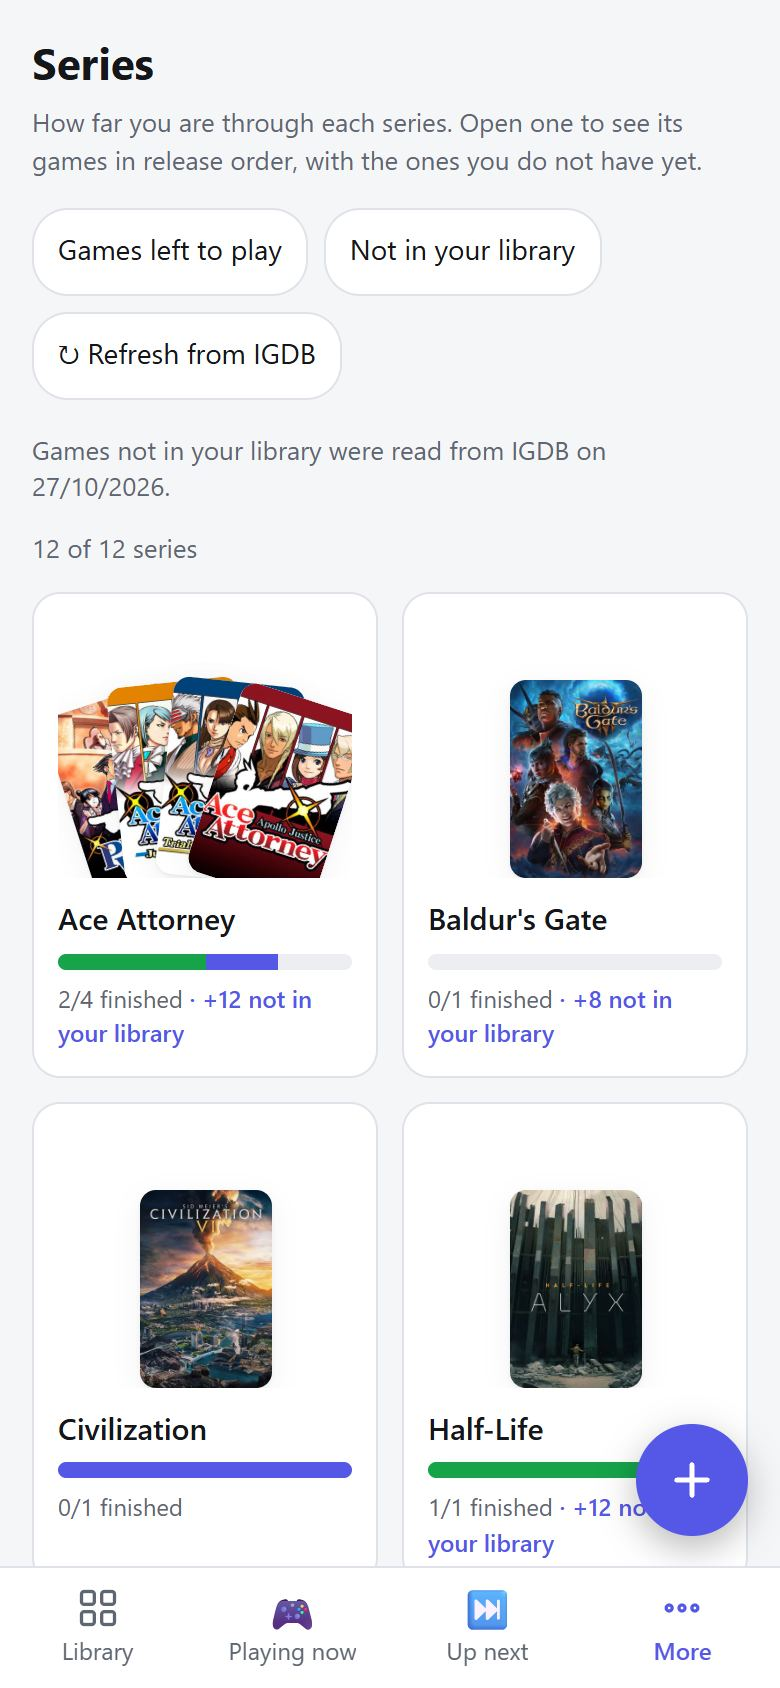
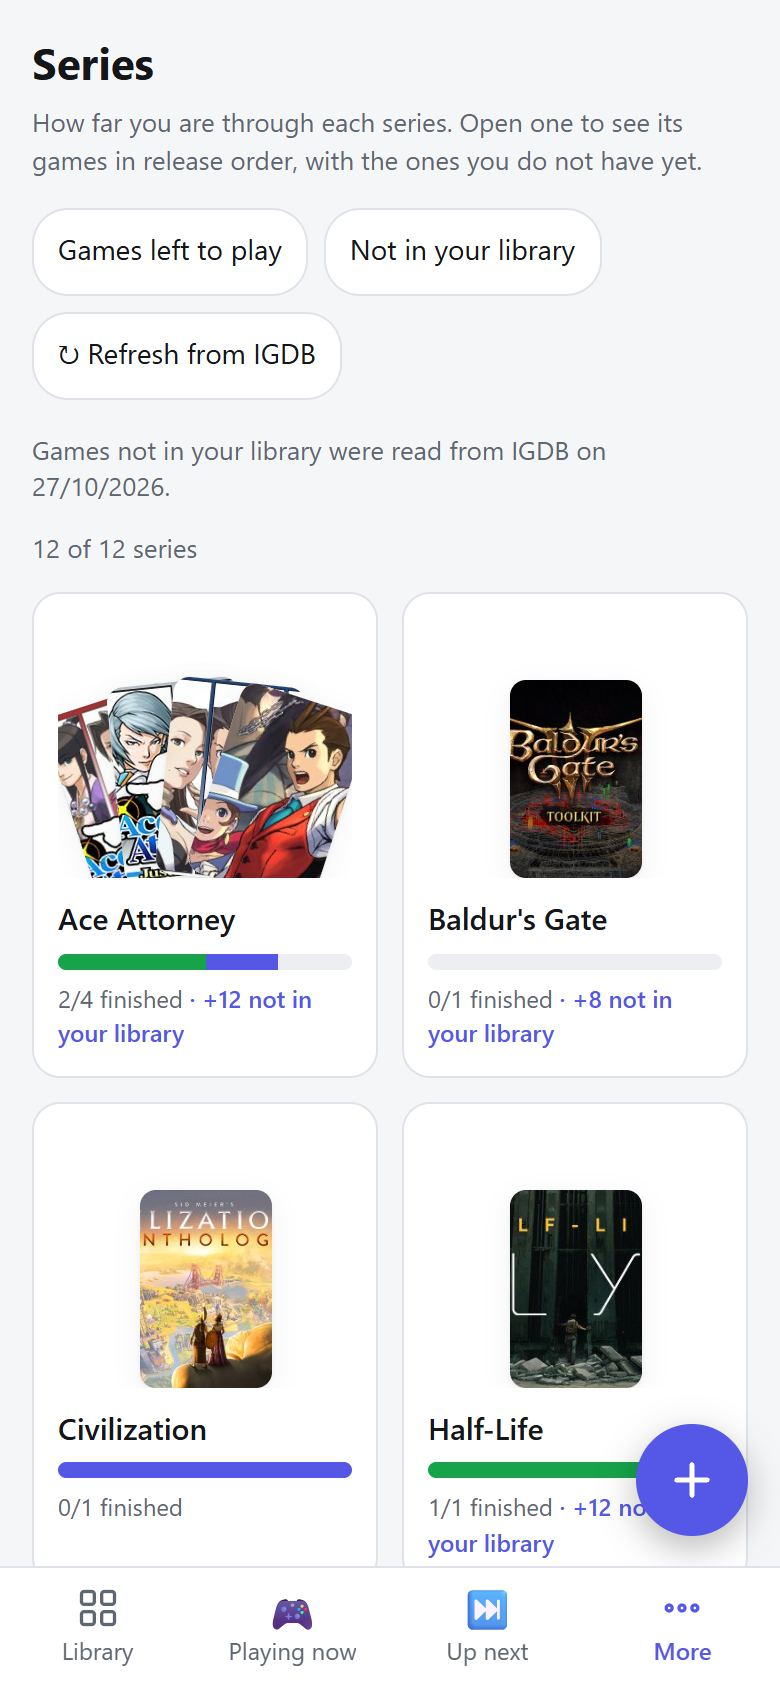
PR 5 review fixes: wishlist is not the library on Series and Stats, Hide survives games-changed, poster cache key, release dates off the request path, English dates

diff --git a/web/static/js/series.js b/web/static/js/series.js
@@ -21,9 +21,12 @@ export function compareInSeries(a, b) {
 
 const keyOf = (name) => name.trim().toLowerCase();
 
+/** A game on the Wishlist is not in the library yet: it never counts as a game of a series (total, played, left). */
+export const isWishlist = (g) => g.status === 'wishlist';
+
 /**
- * Every series that has at least one game, as
- *  { key, name, games (ordered), total, finished, played, left, noYear }
+ * Every series that has at least one game of the library, as
+ *  { key, name, games (ordered), wishlist (its Wishlist games, not counted), total, finished, played, left, noYear }
  * `noYear` counts the games without a release year (the order is then only partly known).
  * `played` includes the finished games. Series are ordered by name; names that differ only in case are one series.
  */
@@ -33,12 +36,13 @@ export function buildSeries(games) {
     if (!g.series || !g.series.trim()) continue;
     const key = keyOf(g.series);
     let s = map.get(key);
-    if (!s) map.set(key, (s = { key, name: g.series.trim(), games: [] }));
-    s.games.push(g);
+    if (!s) map.set(key, (s = { key, name: g.series.trim(), games: [], wishlist: [] }));
+    (isWishlist(g) ? s.wishlist : s.games).push(g);
   }
-  const out = [...map.values()];
+  const out = [...map.values()].filter((s) => s.games.length > 0); // a series of wishlist games only is not in the library
   for (const s of out) {
     s.games.sort(compareInSeries);
+    s.wishlist.sort(compareInSeries);
     s.total = s.games.length;
     s.finished = s.games.filter(isFinished).length;
     s.played = s.games.filter(isPlayed).length;
@@ -113,18 +117,35 @@ export const extraOf = (index, s) => index.get(s.key) ?? EMPTY_EXTRA;
 export const withMissing = (series, index) => series.filter((s) => extraOf(index, s).missing.length > 0);
 
 /**
- * The items of an opened series in release order, owned and not registered together:
- * { kind: 'owned', game } or { kind: 'missing', game: {igdb_id, title, year, cover, collection_id} }.
+ * Move a game of the answer of GET api/series/missing between its `missing` and `hidden` lists (to = 'hidden' or
+ * 'missing'), matching igdb_id and collection_id, so that the index rebuilt from the answer (on every games-changed)
+ * keeps what the owner hid or showed. Shared by the Series and Upcoming pages.
+ */
+export function moveHidden(resp, m, to) {
+  const from = to === 'hidden' ? 'missing' : 'hidden';
+  for (const e of resp?.series ?? []) {
+    const i = e[from].findIndex((x) => x.igdb_id === m.igdb_id && x.collection_id === m.collection_id);
+    if (i < 0) continue;
+    const [x] = e[from].splice(i, 1);
+    e[to].push(x);
+    e[to].sort((a, b) => (a.year ?? Infinity) - (b.year ?? Infinity) || a.title.localeCompare(b.title));
+  }
+}
+
+/**
+ * The items of an opened series in release order: the library's games, the Wishlist games and the games not registered:
+ * { kind: 'owned', game }, { kind: 'wishlist', game } or { kind: 'missing', game: {igdb_id, title, year, cover, collection_id} }.
  * Same order as compareInSeries (year ascending, unknown last, then title); an owned game comes before a game of
- * the same year and title that is missing.
+ * the same year and title that is missing or wished for.
  */
 export function shelfItems(s, extra) {
   const items = s.games.map((game) => ({ kind: 'owned', game, year: game.release_year, title: game.title }));
+  for (const game of s.wishlist ?? []) items.push({ kind: 'wishlist', game, year: game.release_year, title: game.title });
   for (const m of extra.missing) items.push({ kind: 'missing', game: m, year: m.year, title: m.title });
   return items.sort((a, b) => {
     const ya = a.year ?? Infinity, yb = b.year ?? Infinity;
     if (ya !== yb) return ya < yb ? -1 : 1;
-    return collator.compare(a.title, b.title) || (a.kind === b.kind ? 0 : a.kind === 'owned' ? -1 : 1);
+    return collator.compare(a.title, b.title) || (a.kind === b.kind ? 0 : a.kind === 'owned' ? -1 : b.kind === 'owned' ? 1 : a.kind === 'wishlist' ? -1 : 1);
   });
 }
 
@@ -138,6 +159,7 @@ export function fanGames(s, hasImage, n = 4) {
 export function seriesSummary(s, extra) {
   let t = progressText(s);
   if (s.left) t += ` · ${s.left} left to play`;
+  if (s.wishlist?.length) t += ` · ${s.wishlist.length} on your wishlist`;
   if (extra.missing.length) t += ` · ${extra.missing.length} not in your library`;
   return t;
 }

diff --git a/web/static/js/upcomingview.js b/web/static/js/upcomingview.js
@@ -5,13 +5,13 @@ import { h, gradientFor, initials, lazyImg, toast, toastAction } from './util.js
 import { store, load as reloadGames, coverURL, posterURL, seriesMissing, seriesRefresh, seriesHide, seriesUnhide, igdbGame, missingPosterURL } from './api.js';
 import { openDrawer } from './drawer.js';
 import { openAdd } from './add.js';
-import { missingIndex, oldestFetch } from './series.js';
-import { buildUpcoming, formatRelease } from './upcoming.js';
+import { missingIndex, moveHidden, oldestFetch } from './series.js';
+import { buildUpcoming, formatRelease, LOCALE } from './upcoming.js';
 
 const imageOf = (g) => posterURL(g) || coverURL(g);
 
 function poster(item) {
-  const url = item.kind === 'owned' ? imageOf(item.game) : missingPosterURL(item.missing.cover);
+  const url = item.kind === 'owned' ? imageOf(item.game) : missingPosterURL(item.missing.cover, item.missing.v);
   const box = h('span.pst' + (item.kind === 'missing' ? '.pst-missing' : ''), {},
     url ? lazyImg(url) : h('span.ph', { style: `background:${gradientFor(item.title)}` }, initials(item.title)));
   return box;
@@ -75,11 +75,9 @@ export function renderUpcoming(root) {
     try {
       await (hide ? seriesHide : seriesUnhide)(m.collection_id, m.igdb_id);
     } catch (e) { toast(e.message || (hide ? 'Could not hide the game' : 'Could not show the game again')); return; }
-    for (const e of index.values()) {
-      const from = hide ? e.missing : e.hidden, to = hide ? e.hidden : e.missing;
-      const i = from.findIndex((x) => x.igdb_id === m.igdb_id && x.collection_id === m.collection_id);
-      if (i >= 0) to.push(...from.splice(i, 1));
-    }
+    // Keep the answer we hold in step with the server: the index is rebuilt from it on every games-changed.
+    moveHidden(info, m, hide ? 'hidden' : 'missing');
+    index = missingIndex(info, store.games);
     draw();
     if (hide) {
       say(`${item.title} hidden.`);
@@ -112,7 +110,7 @@ export function renderUpcoming(root) {
       title: info.configured ? '' : 'IGDB is not set up (keys are missing from .env)' },
     r.running ? `Reading IGDB… ${r.total ? `${r.done}/${r.total}` : ''}` : '↻ Refresh from IGDB');
     const old = oldestFetch(index);
-    const note = old ? `Release dates were read from IGDB on ${new Date(old).toLocaleDateString()}.`
+    const note = old ? `Release dates were read from IGDB on ${new Date(old).toLocaleDateString(LOCALE)}.`
       : info.configured ? 'Press Refresh from IGDB to read the release dates of your wishlist and your series.' : '';
     return [btn, note];
   }

diff --git a/web/static/js/seriesview.js b/web/static/js/seriesview.js
@@ -6,7 +6,7 @@ import { store, coverURL, posterURL, seriesMissing, seriesRefresh, seriesHide, s
 import { openDrawer } from './drawer.js';
 import { openAdd } from './add.js';
 import {
-  buildSeries, withLeft, withMissing, barShares, isFinished, isPlayed, missingIndex, extraOf, shelfItems, fanGames, seriesSummary, oldestFetch,
+  buildSeries, withLeft, withMissing, moveHidden, barShares, isFinished, isPlayed, missingIndex, extraOf, shelfItems, fanGames, seriesSummary, oldestFetch,
 } from './series.js';
 
 // The filters survive going into a series and back (the route re-renders the page).
@@ -104,14 +104,7 @@ export function renderSeries(root, openKey = null) {
   // Keep the answer we hold in step with the server (the index is rebuilt from it on every games-changed), so a hidden
   // game stays hidden and the page redraws without another request.
   function moveTo(m, to) {
-    const from = to === 'hidden' ? 'missing' : 'hidden';
-    for (const e of info.series ?? []) {
-      const i = e[from].findIndex((x) => x.igdb_id === m.igdb_id && x.collection_id === m.collection_id);
-      if (i < 0) continue;
-      const [x] = e[from].splice(i, 1);
-      e[to].push(x);
-      e[to].sort((a, b) => (a.year ?? Infinity) - (b.year ?? Infinity) || a.title.localeCompare(b.title));
-    }
+    moveHidden(info, m, to);
     index = missingIndex(info, store.games);
   }
 
@@ -173,6 +166,14 @@ export function renderSeries(root, openKey = null) {
       else if (state === 'played') box.append(h('i.pmark.pl', { 'aria-hidden': 'true' }, '▶'));
       return h('div.shelf-cell', {},
         h('button.si', { type: 'button', onclick: () => openDrawer(g), 'aria-label': `${g.title}, ${g.release_year ?? 'year unknown'}, ${STATE_LABEL[state]}${st ? `, ${st.label}` : ''}` }, box),
+        h('span.si-name', {}, g.title), h('small', {}, g.release_year ?? 'Year unknown'));
+    }
+    if (item.kind === 'wishlist') { // not in the library yet: the missing look, with its own mark
+      const g = item.game;
+      const box = poster(g, '.pst-missing');
+      box.append(h('i.pnew', {}, 'On your wishlist'));
+      return h('div.shelf-cell.missing.wish', {},
+        h('button.si', { type: 'button', onclick: () => openDrawer(g), 'aria-label': `${g.title}, ${g.release_year ?? 'year unknown'}, on your wishlist` }, box),
         h('span.si-name', {}, g.title), h('small', {}, g.release_year ?? 'Year unknown'));
     }
     const m = item.game;

diff --git a/web/static/js/upcoming.js b/web/static/js/upcoming.js
@@ -6,6 +6,7 @@
 import { buildSeries } from './series.js';
 
 const DAY_MS = 86400000;
+export const LOCALE = 'en-GB'; // the UI text is English, so dates are too, whatever the browser's language
 export const RECENT_DAYS = 60;
 export const HORIZON_MONTHS = 18; // a release starting later than this goes under "Later / TBA"
 
@@ -34,7 +35,7 @@ export function releasePeriod(date, format) {
 const monthName = (y, m, locale) => new Intl.DateTimeFormat(locale, { timeZone: 'UTC', month: 'long', year: 'numeric' }).format(new Date(Date.UTC(y, m - 1, 15)));
 
 /** "Mar 4, 2027", "March 2027", "Q3 2027", "2027", or "TBA" without a date. */
-export function formatRelease(date, format, locale) {
+export function formatRelease(date, format, locale = LOCALE) {
   const p = releasePeriod(date, format);
   if (!p) return 'TBA';
   switch (p.precision) {
@@ -81,7 +82,7 @@ const byDate = (a, b) => a.period.endDay - b.period.endDay || a.period.startDay 
  *  recent: items out within the last RECENT_DAYS days, newest first
  * `index` maps a series key to { missing } as missingIndex builds it; hidden games are not in it.
  */
-export function buildUpcoming(games, index, now = new Date(), { recentDays = RECENT_DAYS, horizon = HORIZON_MONTHS, locale } = {}) {
+export function buildUpcoming(games, index, now = new Date(), { recentDays = RECENT_DAYS, horizon = HORIZON_MONTHS, locale = LOCALE } = {}) {
   const t = today(now);
   const items = games.filter((g) => g.status === 'wishlist').map(ownedItem);
   const names = new Map(buildSeries(games).map((s) => [s.key, s.name]));

diff --git a/web/static/js/statspage.js b/web/static/js/statspage.js
@@ -2,7 +2,7 @@
 // All numbers come from stats.js (pure); this file only draws them.
 import { h } from './util.js';
 import { store } from './api.js';
-import { backlogSize, backlogTime, finishedPerYear, timeInStatus, topGenres, finishedVsDropped, formatDays, niceScale } from './stats.js';
+import { libraryGames, backlogSize, backlogTime, finishedPerYear, timeInStatus, topGenres, finishedVsDropped, formatDays, niceScale } from './stats.js';
 
 const SVGNS = 'http://www.w3.org/2000/svg';
 function svg(tag, attrs, ...children) {
@@ -133,12 +133,13 @@ function waitingTable(time) {
 }
 
 export function renderStats(root) {
-  const games = store.games;
+  const games = libraryGames(store.games);
+  const wished = store.games.length - games.length;
   const size = backlogSize(games);
   const cleanups = [];
   root.replaceChildren(h('div.stats-page', {},
     h('h1', {}, 'Stats'),
-    h('p.hint', {}, `Computed from the ${games.length} games in your library.`),
+    h('p.hint', {}, `Computed from the ${games.length} games in your library${wished ? ` (${wished} on your wishlist ${wished === 1 ? 'is' : 'are'} not counted)` : ''}.`),
     h('div.stat-grid', {},
       card('Backlog', 'Games on the backlog or up next.',
         h('p.big', {}, size.total, h('small', {}, ` waiting (${size.byStatus.map((s) => `${s.count} ${statusLabel(s.key).toLowerCase()}`).join(', ')})`)),

diff --git a/web/static/js/stats.js b/web/static/js/stats.js
@@ -5,6 +5,9 @@ export const WAITING = ['backlog', 'up_next'];                  // "the backlog"
 export const WAITING_STATUSES = ['backlog', 'up_next', 'hold']; // statuses where "time waiting" is meaningful
 const PLAYED_STATUSES = new Set(['playing', 'playing_evergreen', 'evergreen', 'finished', 'dropped']);
 const DAY = 86400000;
+
+/** The games the stats are about: the library's own. A Wishlist game is not in the library yet. */
+export const libraryGames = (games) => games.filter((g) => g.status !== 'wishlist');
 export const MIN_HISTORY_DAYS = 7;
 
 /** Count values, biggest first, ties alphabetical. Returns [{label, count}], at most `limit` (0 = all). */

diff --git a/internal/api/release_test.go b/internal/api/release_test.go
@@ -12,9 +12,13 @@ import (
 )
 
 // dateMeta answers the release date of IGDB game 100 (a year-precision release) and nothing else.
-type dateMeta struct{ candMeta }
+type dateMeta struct {
+	candMeta
+	calls *int
+}
 
-func (dateMeta) ReleaseDates(_ context.Context, ids []int64) (map[int64]meta.ReleaseOf, error) {
+func (m dateMeta) ReleaseDates(_ context.Context, ids []int64) (map[int64]meta.ReleaseOf, error) {
+	*m.calls++
 	out := map[int64]meta.ReleaseOf{}
 	for _, id := range ids {
 		if id == 100 {
@@ -26,6 +30,9 @@ func (dateMeta) ReleaseDates(_ context.Context, ids []int64) (map[int64]meta.Rel
 
 func releaseOf(t *testing.T, e *seriesEnv, title string) (date, format *int64) {
 	t.Helper()
+	if e.srv != nil {
+		e.srv.bg.Wait() // the date is stored after the response
+	}
 	body := e.req(t, "GET", "/api/games", "", 200)
 	var games []struct {
 		Title         string `json:"title"`
@@ -46,9 +53,10 @@ func releaseOf(t *testing.T, e *seriesEnv, title string) (date, format *int64) {
 
 // Adding or linking a game stores its IGDB release date; without one the game is added all the same.
 func TestAddAndRelinkStoreTheReleaseDate(t *testing.T) {
+	var calls int
 	e := newSeriesEnv(t, true)
 	// swap in a Meta that knows dates: rebuild the server on the same database
-	e2 := newSeriesEnvWith(t, e.db, dateMeta{candMeta{&fakeMeta{igdb: true}}})
+	e2 := newSeriesEnvWith(t, e.db, dateMeta{candMeta{&fakeMeta{igdb: true}}, &calls})
 
 	e.db.Exec(`UPDATE game SET igdb_id = NULL WHERE title = 'Zed'`) // the fixture game holds IGDB id 100
 	e2.req(t, "POST", "/api/games", `{"title":"Zed Origins","status":"wishlist","igdb_id":100}`, 201)
@@ -66,6 +74,13 @@ func TestAddAndRelinkStoreTheReleaseDate(t *testing.T) {
 	e2.req(t, "PATCH", "/api/games/"+itoa(id), `{"igdb_id":100}`, 200)
 	if d, _ := releaseOf(t, e2, "Other"); d == nil || *d != 1830211199 {
 		t.Errorf("after relink: %v", d)
+	}
+	// saving the same link again asks IGDB for nothing
+	before := calls
+	e2.req(t, "PATCH", "/api/games/"+itoa(id), `{"igdb_id":100,"notes":"x"}`, 200)
+	e2.srv.bg.Wait()
+	if calls != before {
+		t.Errorf("IGDB asked %d more times for an unchanged link", calls-before)
 	}
 	// relinking to another game drops the old game's date
 	e2.req(t, "PATCH", "/api/games/"+itoa(id), `{"igdb_id":555}`, 200)
@@ -95,5 +110,5 @@ func newSeriesEnvWith(t *testing.T, d *sql.DB, m Meta) *seriesEnv {
 	s := &Server{DB: d, CoverDir: t.TempDir(), Meta: m}
 	srv := httptest.NewServer(s.Handler())
 	t.Cleanup(srv.Close)
-	return &seriesEnv{db: d, url: srv.URL}
+	return &seriesEnv{db: d, url: srv.URL, srv: s}
 }

diff --git a/internal/api/games_write.go b/internal/api/games_write.go
@@ -200,7 +200,8 @@ func (s *Server) patchGame(w http.ResponseWriter, r *http.Request) {
 	defer tx.Rollback()
 
 	var curStatus int64
-	if err := tx.QueryRow("SELECT status_id FROM game WHERE id = ?", id).Scan(&curStatus); errors.Is(err, sql.ErrNoRows) {
+	var curIGDB sql.NullInt64
+	if err := tx.QueryRow("SELECT status_id, igdb_id FROM game WHERE id = ?", id).Scan(&curStatus, &curIGDB); errors.Is(err, sql.ErrNoRows) {
 		writeErr(w, http.StatusNotFound, "not found", nil)
 		return
 	} else if err != nil {
@@ -254,8 +255,8 @@ func (s *Server) patchGame(w http.ResponseWriter, r *http.Request) {
 		fail(w, err)
 		return
 	}
-	if in.IGDBID != nil && *in.IGDBID > 0 {
-		s.fillRelease(id, *in.IGDBID)
+	if in.IGDBID != nil && *in.IGDBID > 0 && (!curIGDB.Valid || curIGDB.Int64 != *in.IGDBID) { // only a new link needs its date
+		s.fillReleaseLater(id, *in.IGDBID)
 	}
 	g, err := LoadGame(s.DB, id)
 	if err != nil {

diff --git a/internal/api/series.go b/internal/api/series.go
@@ -192,6 +192,15 @@ func (s *Server) igdbGame(w http.ResponseWriter, r *http.Request) {
 	}
 }
 
+// fillReleaseLater runs fillRelease after the response, so a slow or unreachable IGDB never holds up an add or a link.
+func (s *Server) fillReleaseLater(gameID, igdbID int64) {
+	s.bg.Add(1)
+	go func() {
+		defer s.bg.Done()
+		s.fillRelease(gameID, igdbID)
+	}()
+}
+
 // fillRelease stores the IGDB release date of a game just added or linked, for the Upcoming page. It is best effort:
 // without IGDB (or when the lookup fails) the date stays empty until the next Refresh from IGDB or `sync-igdb --enrich`.
 func (s *Server) fillRelease(gameID, igdbID int64) {

diff --git a/internal/api/api.go b/internal/api/api.go
@@ -40,6 +40,7 @@ type Server struct {
 	hltbOnce   sync.Once
 	posterOnce sync.Once
 	posters    *posters.Queue // background poster worker, created on first use (see posterQ)
+	bg         sync.WaitGroup // background best-effort work (release dates of a new link); tests wait for it
 	seriesJob  seriesJob      // the background "Refresh from IGDB" of the Series page
 
 	cache respCache // the encoded /api/games and /api/facets responses

diff --git a/internal/api/link.go b/internal/api/link.go
@@ -60,7 +60,7 @@ func (s *Server) linkAccept(w http.ResponseWriter, r *http.Request) {
 	}
 	err := igdblink.Accept(s.DB, in.GameID, in.IGDBID)
 	if err == nil {
-		s.fillRelease(in.GameID, in.IGDBID)
+		s.fillReleaseLater(in.GameID, in.IGDBID)
 	}
 	s.linkResult(w, err)
 }

diff --git a/internal/api/add.go b/internal/api/add.go
@@ -249,7 +249,7 @@ func (s *Server) createGame(w http.ResponseWriter, r *http.Request) {
 	}
 
 	if in.IGDBID != nil && *in.IGDBID > 0 {
-		s.fillRelease(id, *in.IGDBID)
+		s.fillReleaseLater(id, *in.IGDBID)
 	}
 	coverErr := ""
 	if in.CoverURL != "" {
